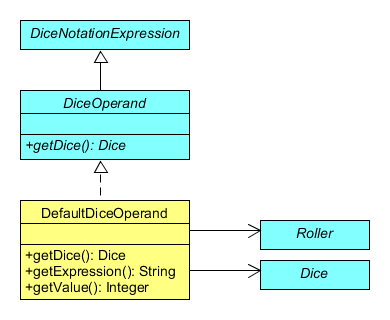
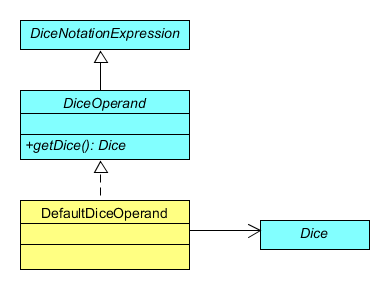
Updated diagrams and docs

Changed region(s): [[0.0308, 0.2793, 0.9538, 0.9621], [0.0308, 0.0621, 0.4923, 0.2172]]

diff --git a/src/site/markdown/notation.md b/src/site/markdown/notation.md
@@ -6,7 +6,9 @@ When a dice notation expression is parsed a tree is generated from it, this is c
 
 ![Dice notation expression class diagram][dice_notation_expression-class_diagram]
 
-[DiceNotationExpression][dice_notation_expression] instances compose the tree nodes. These are meant small pieces in a bigger expression, each of them will be linked to the next one, but not knowing the previous.
+The parsed tree is composed by instances of [DiceNotationExpression][dice_notation_expression]. Only the root returned by the parser changes, as it is a [TransformableDiceNotationExpression][transformable_dice_notation_expression], which allows acquiring values from the parse tree.
+
+These objects are meant to be small pieces in a bigger expression, each of them will be linked to the next one, but not knowing the previous.
 
 For example, the expression "2d6+1d20+5" would become something like this:
 
@@ -16,27 +18,27 @@ Were each node would be an implementation of the DiceNotationExpression interfac
 
 ## Operands
 
-The leaf nodes of the are composed by operands, which just store a value to be used by other components of the model.
+The leaf nodes of the are composed by operands. Each of them stores a value.
 
-They lack a common interface, and currently only two exist, the integer operand and the dice operand.
+They lack a common interface. There are two operands currently: the integer operand and the dice operand.
 
 ### Integer operand
 
 ![Integer operand class diagram][integer_operand-class_diagram]
 
-The [IntegerOperand][integer_operand] just stores an integer value for operations.
+The [IntegerOperand][integer_operand] stores an integer value.
 
 ### Dice operand
 
 ![Dice operand class diagram][dice_operand-class_diagram]
 
-The [DiceOperand][dice_operand] can generate a random value from a dice, which is needed to operate with it. The [DefaultDiceOperand][default_dice_operand] makes use of a [Roller][roller-doc] for it.
+The [DiceOperand][dice_operand] stores an dice set.
 
 ## Operations
 
 ![Binary operation class diagram][binary_operation-class_diagram]
 
-Only the most simple binary operations, addition and subtraction, are supported. The [BinaryOperation][binary_operation] interface represents them, while the [AdditionOperation][addition_operation] and [SubtractionOperation][subtraction_operation] are their implementations.
+Only the most simple binary operations, addition and subtraction, are supported. They are represented by the [BinaryOperation][binary_operation] interface, and implemented by [AdditionOperation][addition_operation] and [SubtractionOperation][subtraction_operation].
 
 [binary_operation-class_diagram]: ./images/binary_operation_class_diagram.png
 [dice_notation_expression-class_diagram]: ./images/dice_notation_class_diagram.png
@@ -45,13 +47,11 @@ Only the most simple binary operations, addition and subtraction, are supported.
 
 [dice_notation_expression-tree_example]: ./images/dice_notation_tree_example.png
 
-[roller-doc]: ./dice.html
-
 [dice_notation_expression]: ./apidocs/com/bernardomg/tabletop/dice/notation/DiceNotationExpression.html
+[transformable_dice_notation_expression]: ./apidocs/com/bernardomg/tabletop/dice/notation/TransformableDiceNotationExpression.html
 
 [integer_operand]: ./apidocs/com/bernardomg/tabletop/dice/notation/operand/IntegerOperand.html
 [dice_operand]: ./apidocs/com/bernardomg/tabletop/dice/notation/operand/DiceOperand.html
-[default_dice_operand]: ./apidocs/com/bernardomg/tabletop/dice/notation/operand/DefaultDiceOperand.html
 
 [binary_operation]: ./apidocs/com/bernardomg/tabletop/dice/notation/operation/BinaryOperation.html
 [addition_operation]: ./apidocs/com/bernardomg/tabletop/dice/notation/operation/AdditionOperation.html
